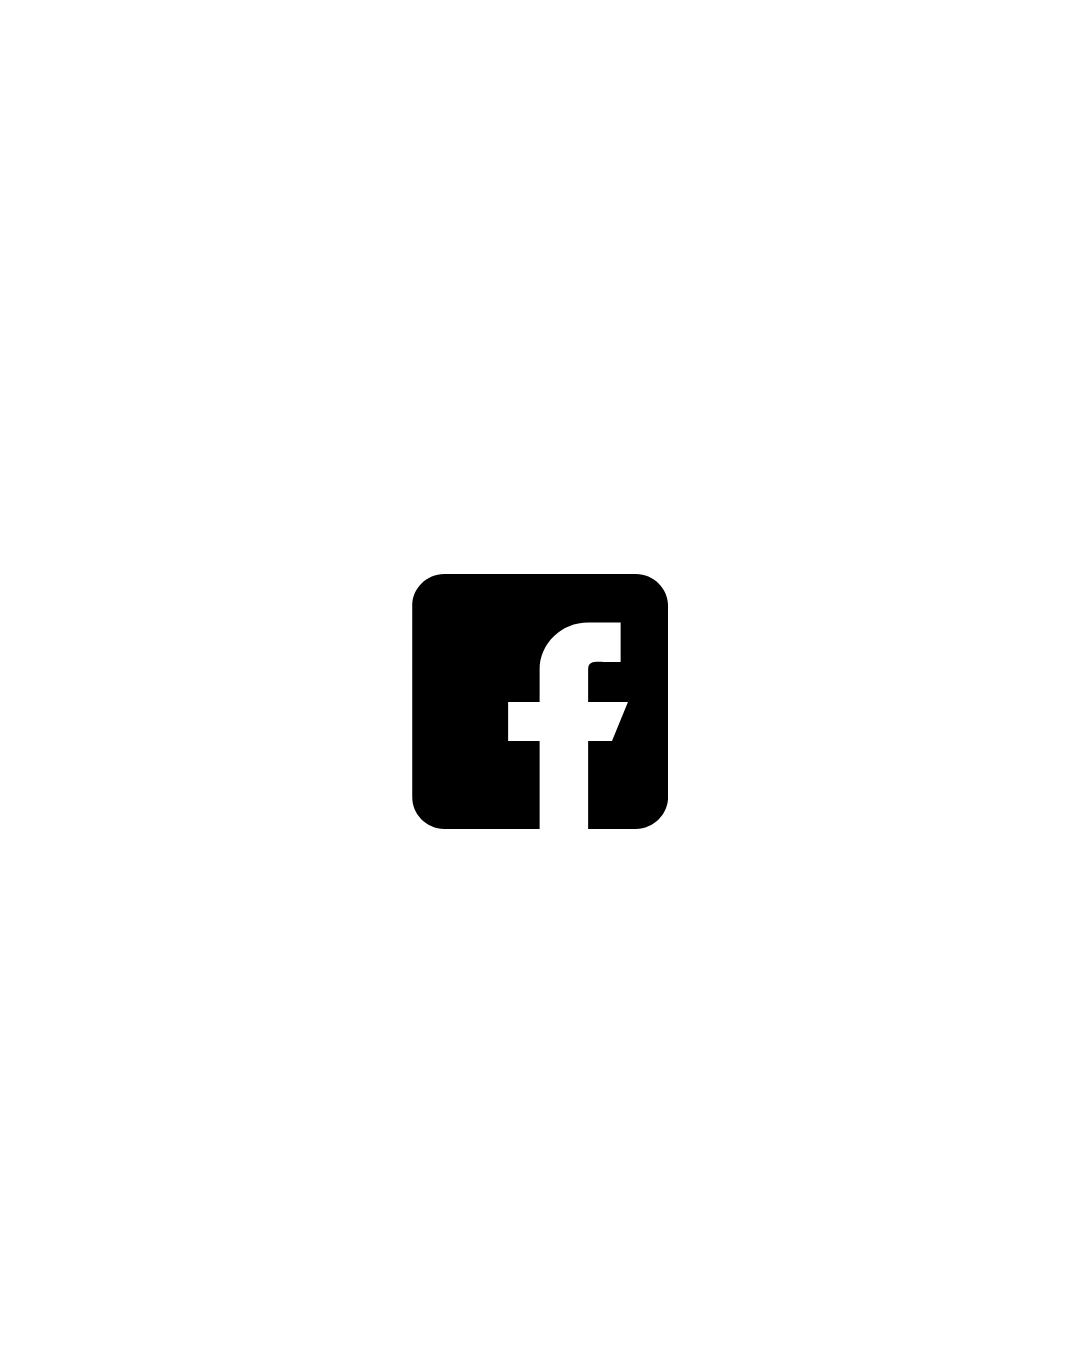
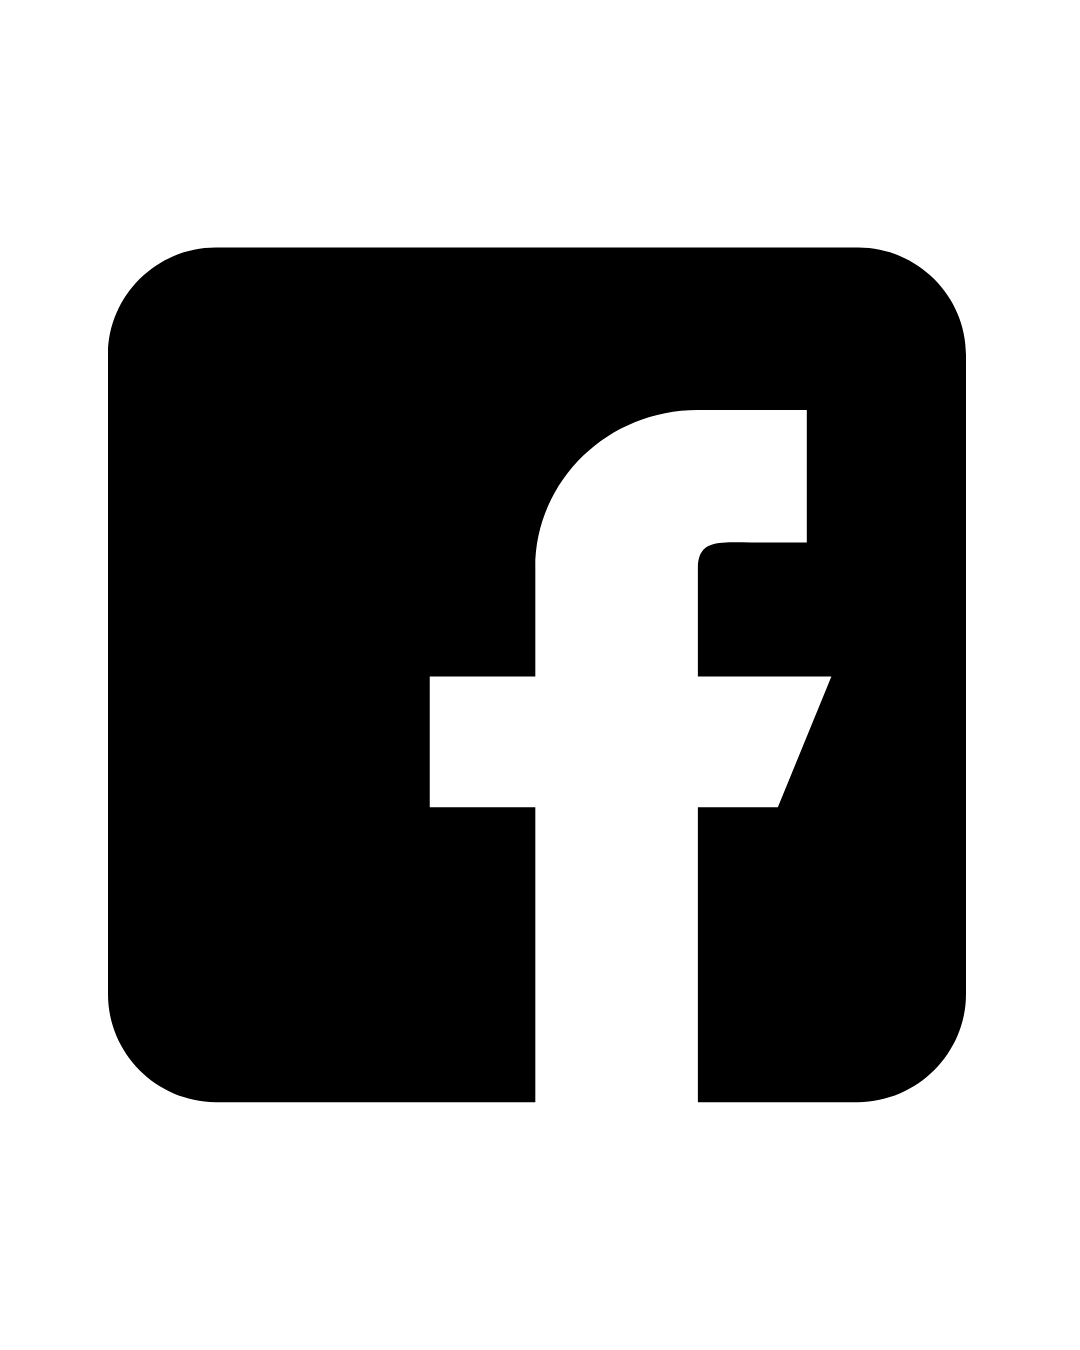
organizando o código

diff --git a/styles.css b/styles.css
@@ -8,7 +8,7 @@ body {
     margin: 0;
     font-family: 'Poppins', sans-serif;
     background: url(imagens/fundo.png) no-repeat center center;
-    background-size: 235% ; /* A imagem cobre toda a tela */
+    background-size: 300% ; /* A imagem cobre toda a tela */
     height: 100vh; /* Garantir que o fundo cubra toda a altura da tela */
 }
 
@@ -64,7 +64,7 @@ body {
     max-width: 1200px;
     margin: auto;
     padding: 20px;
-    min-height: 100vh; /* Garante que a página possa rolar */
+    min-height: 100vh; /
 }
 
 .text {
@@ -74,7 +74,7 @@ body {
 }
 
 img {
-    position: relative; /* Mantém a posição original da imagem */
+    position: relative; 
     max-width: 300px;
     height: auto;
     z-index: -1; 
@@ -192,7 +192,7 @@ button {
     }
   }
 
-@keyframes glow {
+  @keyframes glow {
     0% {
         transform: scale(1);
         opacity: 0.7;
@@ -205,24 +205,26 @@ button {
 
 .container2 {
     display: flex;
-    justify-content: flex-end; /* Alinha as divs à direita */
-    align-items: center; /* Centraliza verticalmente */
+    justify-content: flex-end; 
+    align-items: center; 
     margin-bottom: 50px;
 }
 
 .chat-container {
-    position: absolute; /* Mantém o chat como referência */
+    position: absolute; 
+    margin-right: 200px;
 }
 
 .balao-container {
-    position: relative; /* Permite sobreposição */
-    bottom: -80px; /* Move o balão para cima, deixando só a pontinha sobre o chat */
-    margin-right: 380px;
+    position: relative; 
+    bottom: -80px; 
+    margin-right: 400px;
 }
 
 .balao {
     width: 60%;
     min-width: 550px;
+    margin-right: 180px;
 }
 
 .chat {
@@ -274,8 +276,8 @@ button {
     text-align: center;
     max-width: 300px;
     transition: transform 0.3s ease-in-out;
-    flex: 0 0 auto; /* Mantém o tamanho fixo dos cards */
-    z-index: 1; /* Mantém os cards atrás da wave */
+    flex: 0 0 auto; 
+    z-index: 1; 
    
 }
 
@@ -295,59 +297,6 @@ button {
     color: #333;
     font-weight: bold;
 }
-
-.container5{
-    display: flex;
-    justify-content: flex-end;
-    align-items: center;
-    position: relative;
-    overflow: visible;
-    background-color: black;
-
-
-}
-
-
-.meio-circulo {
-    width: 400px;
-    height: 400px;
-    background-color: red;
-    border-top-left-radius: 400px;
-    z-index: 2;
-   
-}
-   
-
-.wave-footer-container {
-    position: absolute;
-    left: 0;
-    bottom: 0; /* Posiciona a onda na parte inferior */
-    width: 100%;
-  
-}
-
-.wave-footer {
-    width: 100%;
-    height: auto;
-}
-
-.rodapé {
-    display: flex;
-    justify-content: center;
-    align-items: center;
-    background: red;
-    height: 20px;
-    width: 100%;
-    position: absolute;
-    bottom: 0;
-    left: 0;
-    z-index: 1000; /* Mantém o footer sempre no topo */
-    padding: 0 20px;
-    color: aliceblue;
-    font-size: 10px;
-}
-
-
 
 .container4{
     display: flex;
@@ -396,6 +345,14 @@ p {
   
 }
 
+.container5{
+    display: flex;
+    align-items: center;
+    position: relative;
+    background-color: black;
+}
+
+
 .linha {
     background-color: aliceblue;
     margin-left: 10px;
@@ -414,30 +371,47 @@ p {
    
 }
 
+.container6{
+    background-color: black;
+
+}
+
+.wave-footer-container {
+    position: absolute;
+    left: 0;
+    bottom: 0; 
+    width: 100%;
+  
+}
+
+.wave-footer {
+    width: 100%;
+    height: auto;
+}
 
 
-.social-icons {
-    position: fixed;  /* Fixa a posição dos ícones */
-    left: 10px;       /* Coloca a 10px da borda esquerda */
-    top: 50%;         /* Centraliza verticalmente */
-    transform: translateY(-50%); /* Ajusta a centralização */
+.meio-circulo {
+    width: 400px;
+    height: 400px;
+    background-color: red;
+    border-top-left-radius: 400px;
+    z-index: 2;
+    
+}
+
+.rodapé {
     display: flex;
-    flex-direction: column; /* Empilha os ícones verticalmente */
-    gap: 10px; /* Espaço entre os ícones */
-    margin-top: 300px;
-    z-index: 1;
+    justify-content: center;
+    align-items: center;
+    background: red;
+    height: 20px;
+    width: 100%;
+    position: absolute;
+    bottom: 0;
+    left: 0;
+    z-index: 1000; /* Mantém o footer sempre no topo */
+    padding: 0 20px;
+    color: aliceblue;
+    font-size: 10px;
 }
-
-.social-icons a img {
-    width: 40px; /* Define o tamanho dos ícones */
-    height: 40px;
-    transition: transform 0.3s ease-in-out;
-}
-
-.social-icons a img:hover {
-    transform: scale(1.2); /* Efeito de zoom ao passar o mouse */
-}
-
-.instagram {
-    filter: grayscale(100%) brightness(0);
-}
+       

diff --git a/index.html b/index.html
@@ -14,7 +14,6 @@
     
 </head>
 <body>
-
     <div class="wave-container">
         <svg class="wave" viewBox="0 0 1440 320" xmlns="http://www.w3.org/2000/svg">
             <path fill="red" fill-opacity="1" d="M0,160L48,149.3C96,138,192,106,288,101.3C384,96,480,128,576,149.3C672,171,768,192,864,181.3C960,171,1056,128,1152,101.3C1248,75,1344,64,1392,85.3L1440,106L1440,0L1392,0C1344,0,1248,0,1152,0C1056,0,960,0,864,0C768,0,672,0,576,0C480,0,384,0,288,0C192,0,96,0,48,0L0,0Z"></path>
@@ -100,39 +99,38 @@
                     <h3>Comunicação rápida e segura</h3>
                     <p>Envie e receba mensagens privadas com total segurança, incluindo fotos, vídeos e documentos. Com a confirmação de leitura, você tem mais controle e clareza na comunicação escolar.</p>
                 </div>
-            <img class="imagem" src="imagens/img.atla.png" alt="">
+            <img class="imagem" src="imagens/Design sem nome.png" alt="">
+
         </div>
 
         <div class="linha">Sobre nós</div>
-        <div class="video-container">
-            <iframe width="560" height="315" src="https://www.youtube.com/embed/K2HlMNaLXhw" frameborder="0" allow="accelerometer; autoplay; encrypted-media; gyroscope; picture-in-picture" allowfullscreen></iframe>
-          </div>
-          
-          <footer class="container5">
-              <!-- Div para o meio-círculo (presumo que seja um efeito de design) -->
-            <div class="meio-circulo"></div>
-            <div class="social-icons">
-                  <a href="https://www.instagram.com/atlaensino/" target="_blank" class="icon instagram">
-                      <img class="instagram" src="imagens/instragam.png" alt="">
-                  </a>
-                  <a href="https://www.facebook.com/seuperfil" target="_blank" class="icon facebook">
-                      <img src="imagens/facebook.png" alt="">
-                  </a>
-                  <a href="https://www.youtube.com/c/seuperfil" target="_blank" class="icon youtube">
-                      <i class="fab fa-youtube"></i>
-                  </a>
+        <div class="container5" >
+            <div class="video-container">
+                <iframe width="560" height="315" src="https://www.youtube.com/embed/K2HlMNaLXhw" frameborder="0" allow="accelerometer; autoplay; encrypted-media; gyroscope; picture-in-picture" allowfullscreen></iframe>
             </div>
-        
-            <!-- Contêiner do wave (o SVG da onda) -->
+        </div>
+
+          
+        <footer class="container6">
+            
             <div class="wave-footer-container">
                 <svg class="wave-footer" viewBox="0 0 1440 320" xmlns="http://www.w3.org/2000/svg">
                     <path fill="white" fill-opacity="1" d="M0,160L48,149.3C96,138,192,106,288,101.3C384,96,480,128,576,149.3C672,171,768,192,864,181.3C960,171,1056,128,1152,101.3C1248,75,1344,64,1392,85.3L1440,106L1440,320L0,320Z"></path>
                 </svg>  
+                
+                <div class="social-icons">
+                    <a href="https://www.instagram.com/atlaensino/" target="_blank" class="icon instagram">
+                        <img class="instagram" src="imagens/facebook.png" alt="">
+                    </a>
+                    <a href="https://www.facebook.com/seuperfil" target="_blank" class="icon facebook">
+                        <img src="imagens/Design sem nome(1).png" alt="">
+                    </a>
+                    <a href="https://www.youtube.com/c/seuperfil" target="_blank" class="icon youtube">
+                        <i class="fab fa-youtube"></i>
+                    </a>
+                </div>
             </div>
-        
-            
-            
-            
+            <div class="meio-circulo"></div>
             <div class="rodapé">
                 © 2025. Todos os direitos reservados | Termos | Privacidade | Mapa
             </div>
